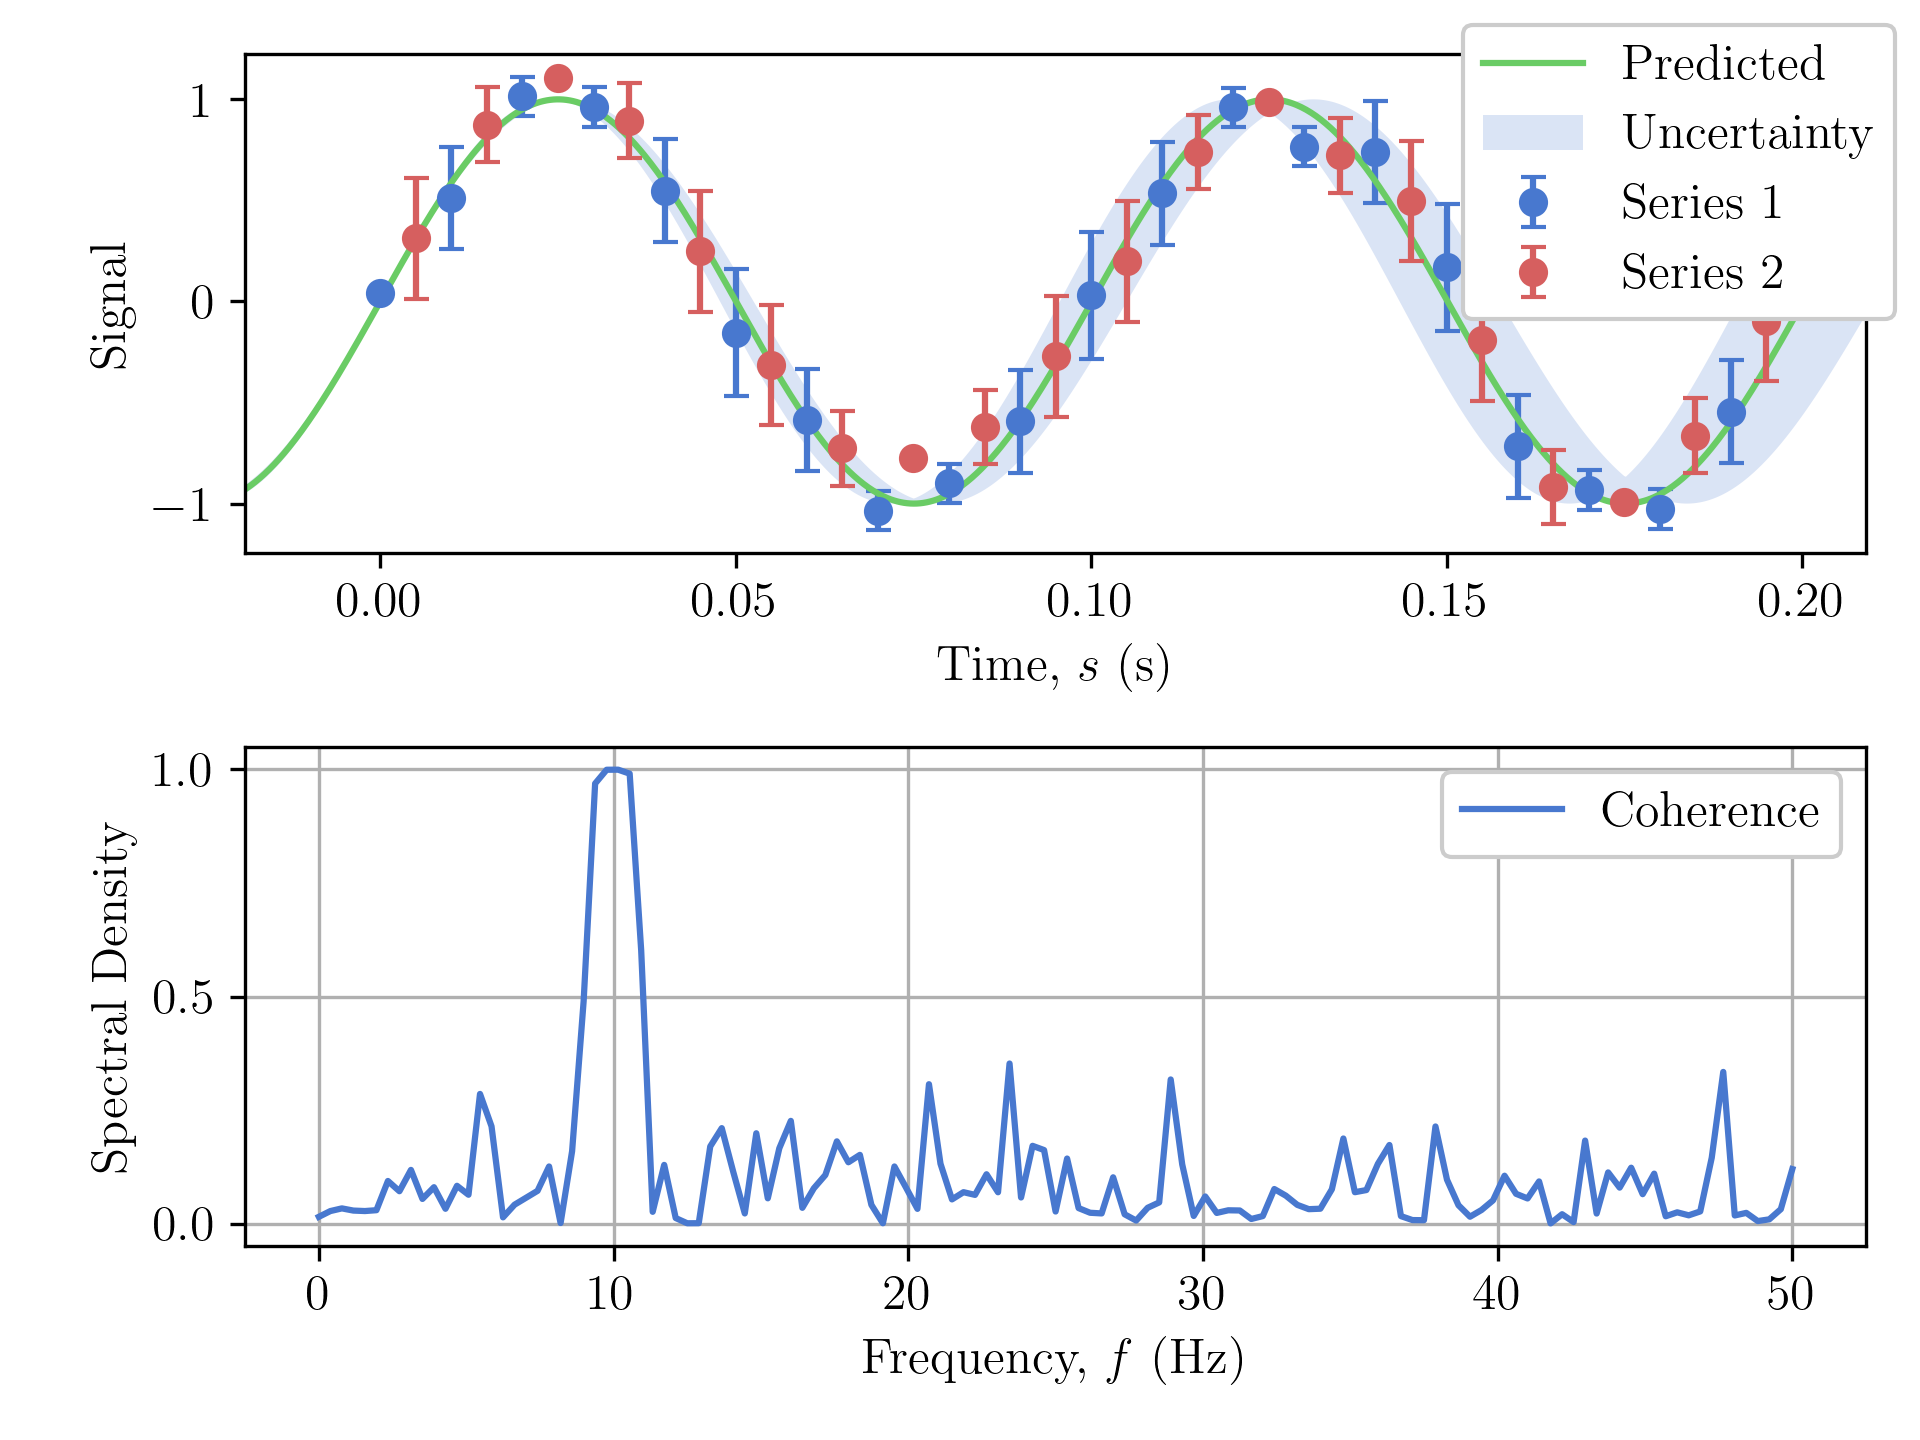
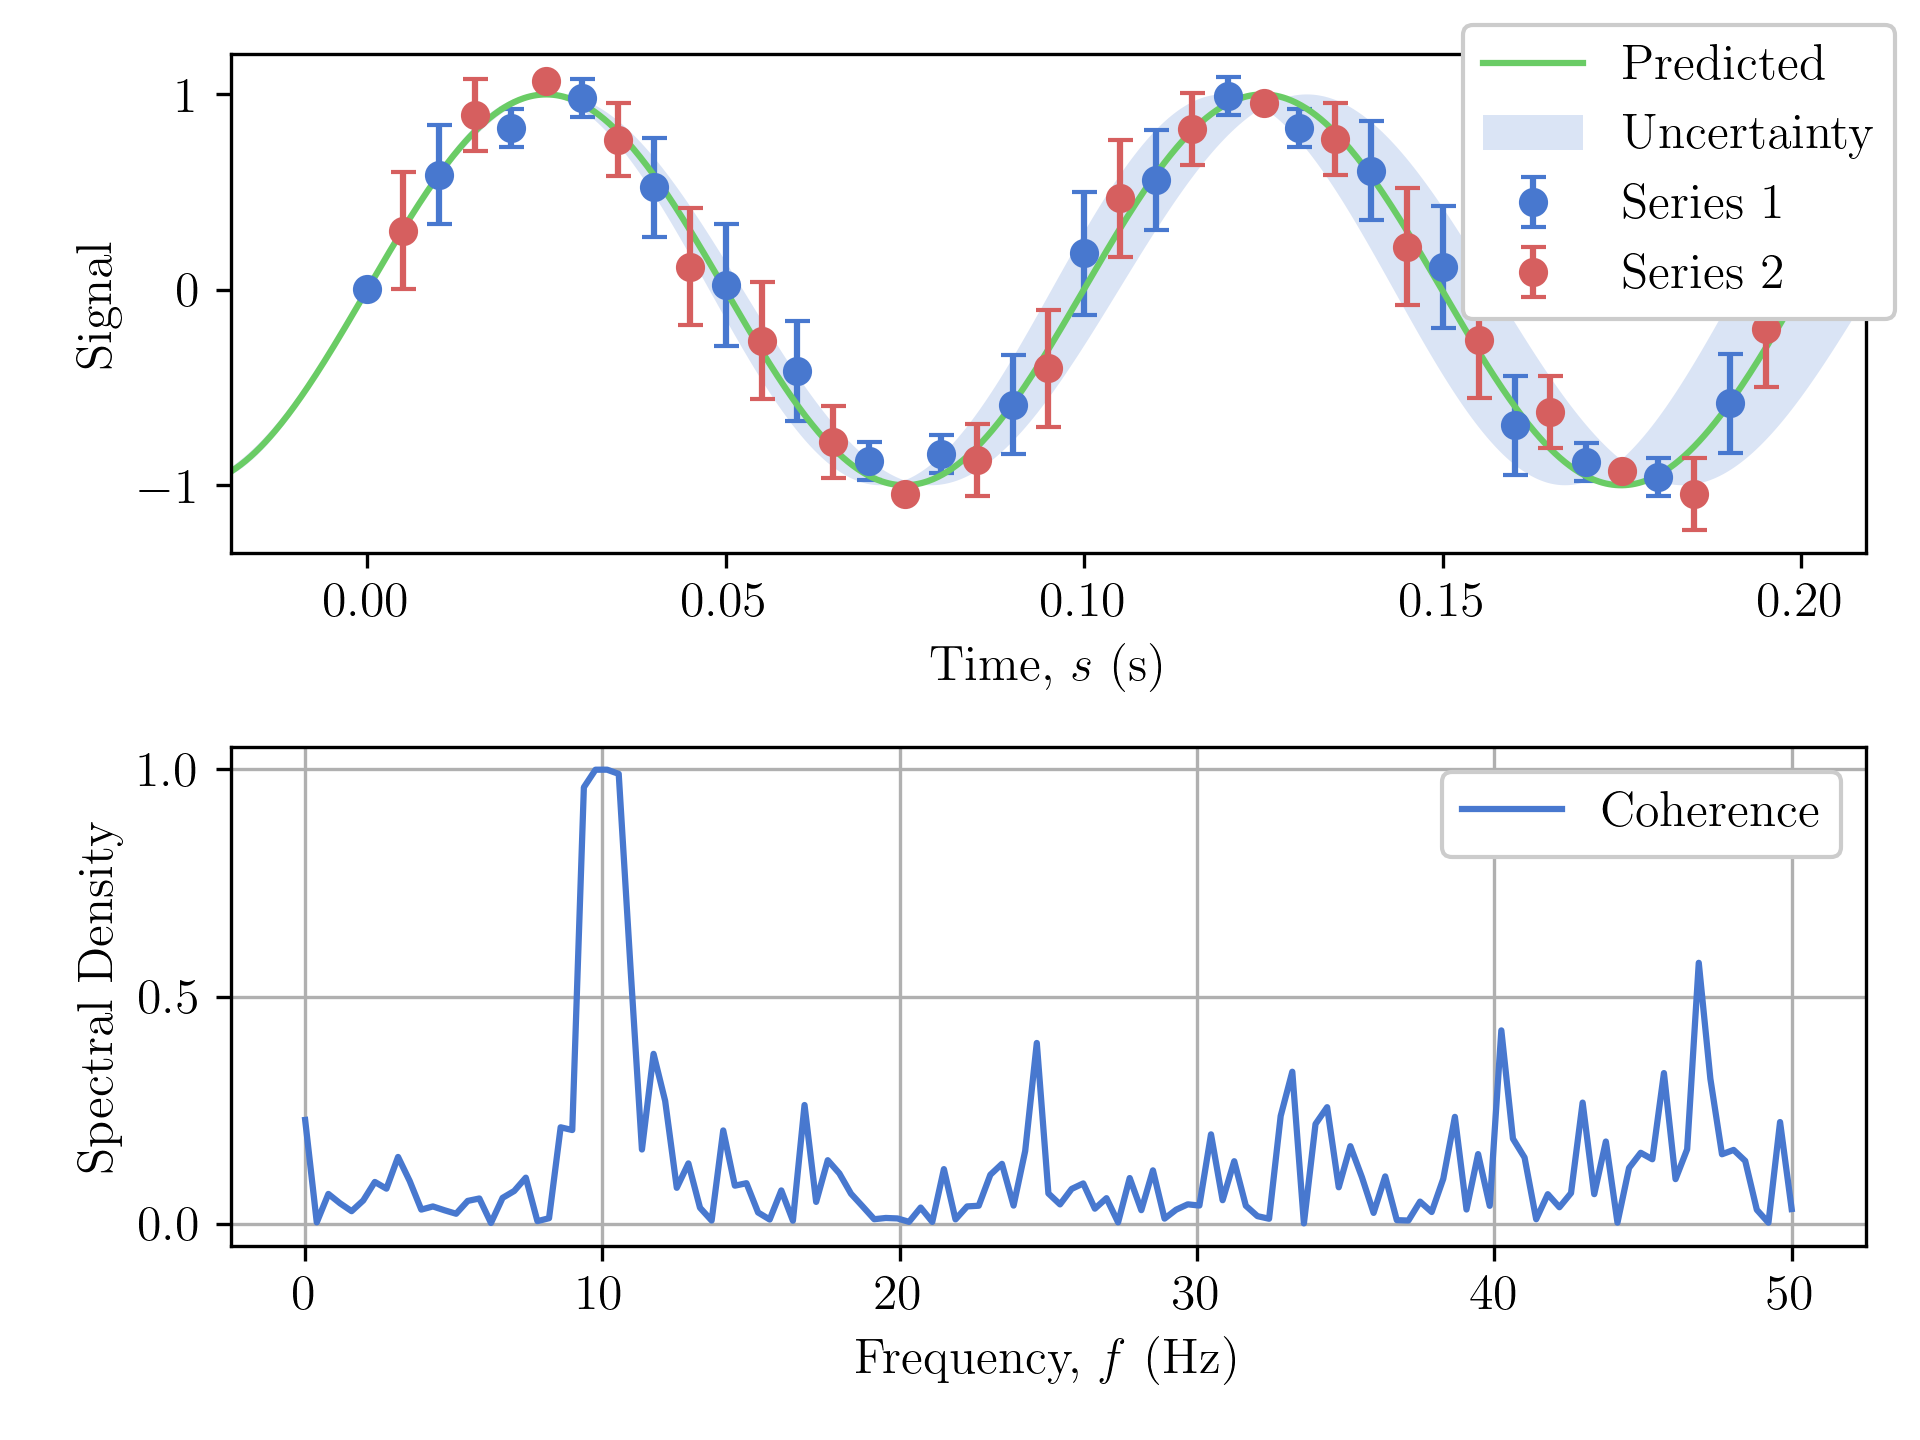
versioning fix

diff --git a/setup.py b/setup.py
@@ -5,7 +5,7 @@ import pathlib
 DIR = pathlib.Path(__file__).parent
 README = (DIR / 'README.md').read_text()
 
-VERSION = '0.6.1'
+VERSION = '0.6.3'
 DESCRIPTION = 'Lab report data analysis and LaTeX file generation'
 
 setuptools.setup(

diff --git a/labtex/__init__.py b/labtex/__init__.py
@@ -7,4 +7,4 @@ from labtex.nonlinear import NonlinearRegression
 from labtex.document import Document
 
 
-__version__ = '0.6.1'
+__version__ = '0.6.3'
